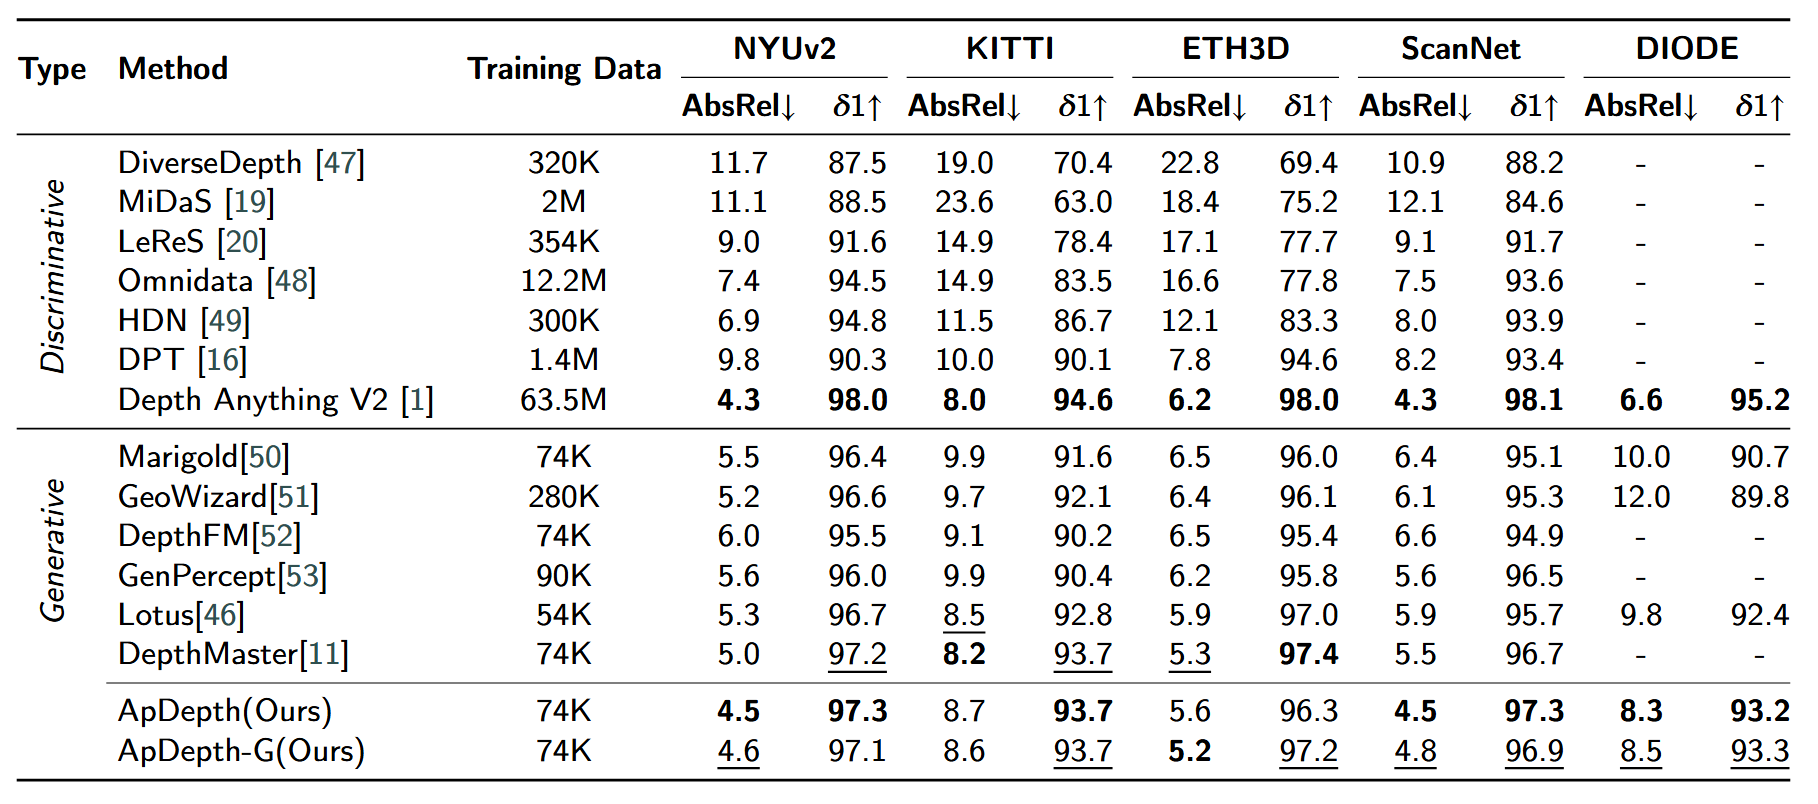
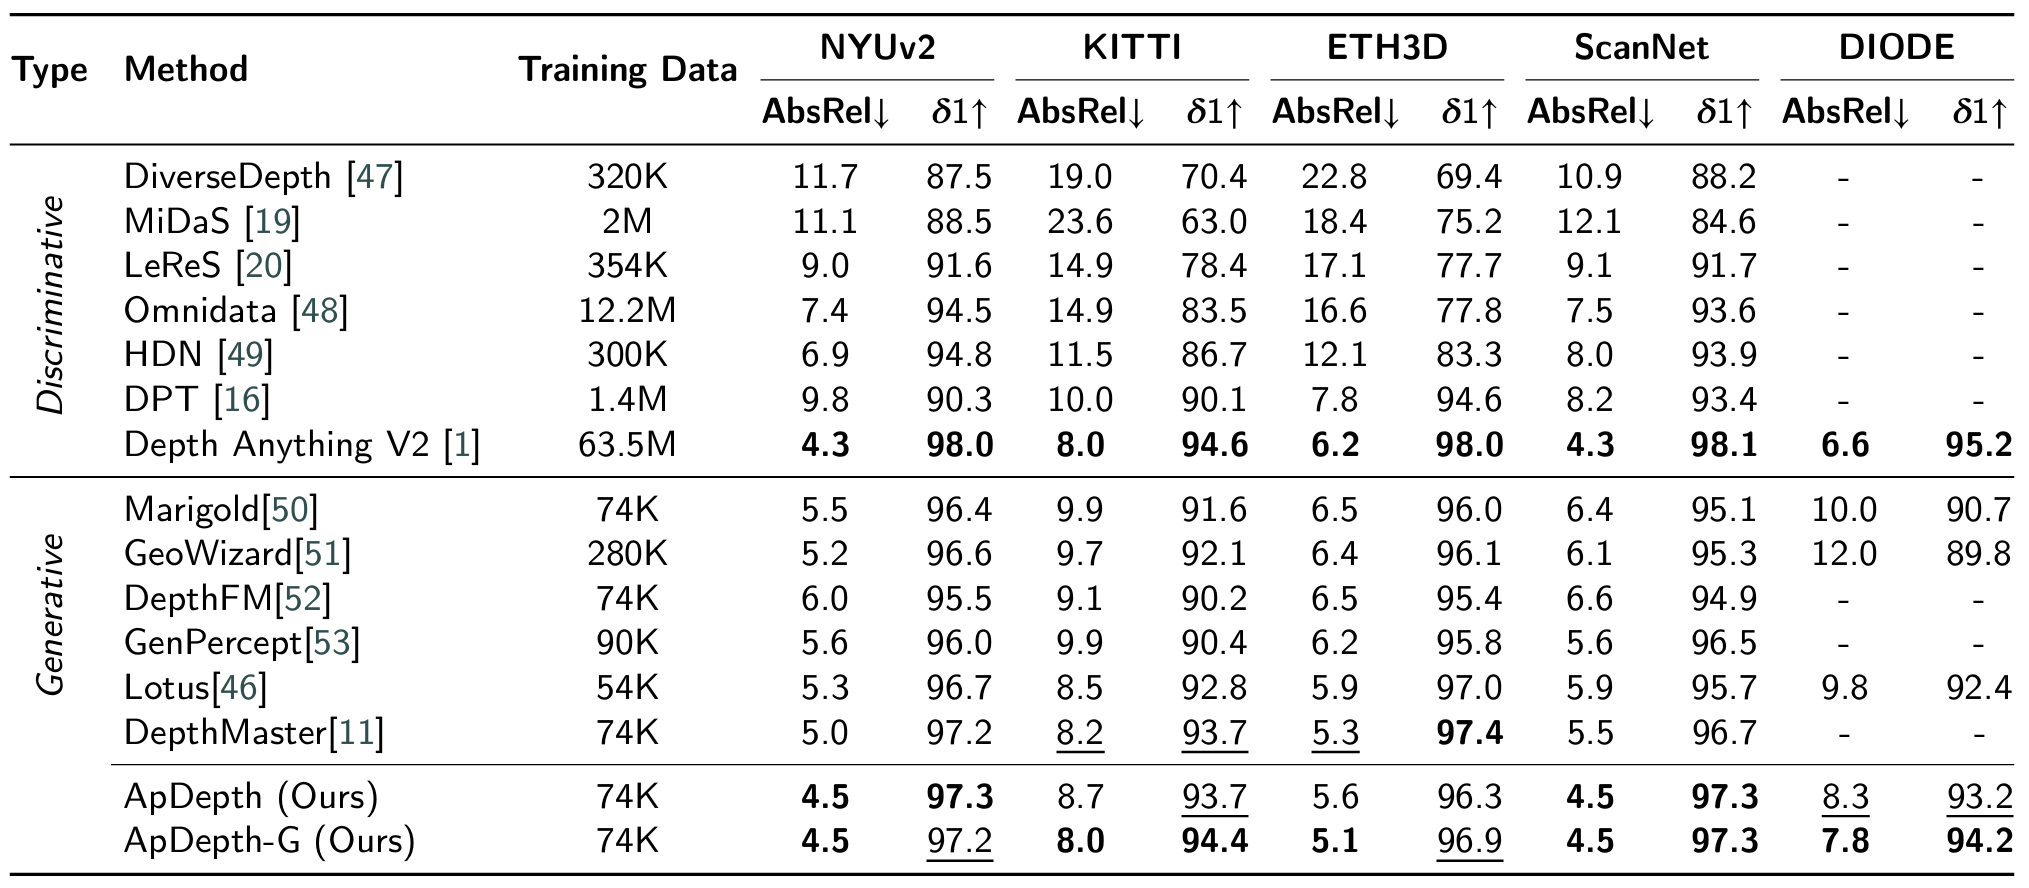
update: add framework for Apdepth-G web page

diff --git a/ApDepth-G/index.html b/ApDepth-G/index.html
@@ -49,8 +49,8 @@
       <span>Jiawei Wang<sup>a,c,d,†</sup>,</span>
       <span>Jingxuan Wang<sup>b,†</sup>,</span>
       <span>Mingbo Lei<sup>a,c</sup>,</span>
-      <span>Haoze Shou<sup>a,c</sup>,</span>
-      <span>and Yusu Liang<sup>a,c</sup></span>
+      <span>Liang Yao<sup>a,c</sup>,</span>
+      <span>and Tianyu Lu<sup>a,c</sup></span>
     </p>
 
     <div class="ieee-affiliations">
@@ -124,8 +124,32 @@
   </section>
 </main>
 
+<section class="training-framework" aria-labelledby="training-framework-heading">
+  <h2 id="training-framework-heading">Training Framework</h2>
+  <figure class="training-framework__figure">
+    <img src="./framework.png" width="75%" alt="ApDepth-G training framework with depth-prior conditioning, latent diffusion, robust noise augmentation, and geometry-aware losses.">
+    <figcaption>
+      <strong>Fig. 2.</strong> Overview of <strong>ApDepth-G</strong>. A frozen foundation depth model
+      <span class="math-symbol">M<sub>FFD</sub></span> predicts the prior depth
+      <span class="math-symbol">d<sub>p</sub></span>, and a frozen VAE maps the RGB image, prior depth, and
+      ground-truth depth to the four-channel latent representations
+      <span class="math-symbol">z<sub>x</sub></span>,
+      <span class="math-symbol">z<sub>p</sub></span>, and
+      <span class="math-symbol">z<sub>gt</sub></span>, respectively. At diffusion timestep
+      <span class="math-symbol">t</span>, the noisy depth latent
+      <span class="math-symbol">z<sub>gt</sub><sup>t</sup></span> is concatenated with the RGB and prior latents and
+      progressively refined by the trainable latent diffusion U-Net. During training, annealed multi-resolution noise
+      is augmented with a channel-wise offset, and the model is optimized using the Min-SNR-reweighted latent objective
+      <span class="math-symbol">ℒ<sub>latent</sub></span>, latent gradient consistency
+      <span class="math-symbol">ℒ<sub>grad</sub></span>, and validity-guided completion
+      <span class="math-symbol">ℒ<sub>VGC</sub></span> in regions without valid depth supervision. Snowflake and flame
+      symbols denote frozen and trainable modules, respectively.
+    </figcaption>
+  </figure>
+</section>
+
 <!-- Gallery: Indoor Scenarios -->
-<section class="hero is-small" style="margin-top: 30px; padding-top: 0px;">
+<section class="hero is-small ieee-contributions" style="margin-top: 30px; padding-top: 0px;">
   <h2 class="title is-4" style="text-align: center;">Comparison with ApDepth on <span style="color: #4FACFA;">Indoor Scenarios</span></h2>
   <div class="hero-body">
     <div class="container">
@@ -137,7 +161,7 @@
 </section>
 
 <!-- Gallery: Outdoor Scenarios -->
-<section class="hero is-small" style="margin-top: 50px; padding-top: 0px;">
+<section class="hero is-small ieee-contributions" style="margin-top: 50px; padding-top: 0px;">
   <h2 class="title is-4" style="text-align: center;">Comparison with ApDepth on <span style="color: #4FACFA;">Outdoor Scenarios</span></h2>
   <div class="hero-body">
     <div class="container">
@@ -148,10 +172,10 @@
   </div>
 </section>
 
-<section class="hero is-small" style="margin-top: 50px; padding-top: 0px;">
+<section class="hero is-small ieee-contributions" style="margin-top: 50px; padding-top: 0px;">
   <h2 class="title is-4" style="text-align: center;"> Compared with other <span style="color: #155b95;">model-driven methods</span></h2>
   <div style="margin-top: 30px; padding-top: 0px; display: flex; justify-content: center;">
-    <img id="method_inference" width="65%" src="table.png" alt="Result">
+    <img id="method_inference" width="85%" src="table.png" alt="Result">
   </div>
 </section>
 
@@ -161,7 +185,7 @@
         <div class="column is-8" align="center">
           <div class="content">
             <p>
-              Website template based on <a href="https://github.com/nerfies/nerfies.github.io">Nerfies</a> and licensed under <a rel="license" href="http://creativecommons.org/licenses/by-sa/4.0/">CC-BY-SA-4.0</a>.
+              Copyright 2026 Haruko386 · SJZU. All Rights Reserved.
             </p>
           </div>
         </div>
@@ -209,9 +233,7 @@
     const item2 = items[i + 1];
 
     const file1 = item1.split('/').pop();
-    // 提取不带后缀的文件名 (例如把 "41.jpg" 变成 "41")
     const baseName1 = file1.substring(0, file1.lastIndexOf('.'));
-    // 拼接预测图片的正确文件名
     const predFile1 = `${baseName1}_pred_colored.png`;
 
     html += `<div class="img-grid-3">`;

diff --git a/ApDepth-G/static/css/index.css b/ApDepth-G/static/css/index.css
@@ -201,6 +201,69 @@ body {
   text-align: justify;
 }
 
+.training-framework {
+  width: min(94%, 1320px);
+  margin: 3.5rem auto 0;
+  padding-top: 1.25rem;
+  border-top: 3px double #111;
+}
+
+.training-framework > h2 {
+  margin: 0 0 1.75rem;
+  color: #000;
+  font-family: 'Noto Sans', sans-serif;
+  font-size: 1.55rem;
+  font-variant: small-caps;
+  font-weight: 400;
+  letter-spacing: 0.08em;
+  line-height: 1.25;
+  text-align: center;
+}
+
+.training-framework__figure {
+  margin: 0;
+}
+
+.training-framework__figure img {
+  display: block;
+  width: 100%;
+  height: auto;
+  margin: 0 auto;
+}
+
+.training-framework__figure figcaption {
+  max-width: 1160px;
+  margin: 0.9rem auto 0;
+  color: #222;
+  font-size: clamp(0.88rem, 1.05vw, 0.98rem);
+  line-height: 1.5;
+  text-align: justify;
+}
+
+.math-symbol {
+  display: inline-block;
+  font-family: 'Cambria Math', 'STIX Two Math', 'Times New Roman', serif;
+  font-style: italic;
+  line-height: 1;
+  white-space: nowrap;
+}
+
+.math-symbol sub,
+.math-symbol sup {
+  position: relative;
+  font-size: 0.72em;
+  line-height: 0;
+  vertical-align: baseline;
+}
+
+.math-symbol sub {
+  bottom: -0.18em;
+}
+
+.math-symbol sup {
+  top: -0.34em;
+}
+
 @media screen and (max-width: 768px) {
   .ieee-paper {
     width: 100%;
@@ -246,6 +309,22 @@ body {
   .ieee-contribution-grid article + article {
     border-top: 1px solid #aaa;
     border-left: 0;
+  }
+
+  .training-framework {
+    width: calc(100% - 1.5rem);
+    margin-top: 2.75rem;
+  }
+
+  .training-framework > h2 {
+    margin-bottom: 1.1rem;
+    font-size: 1.35rem;
+  }
+
+  .training-framework__figure figcaption {
+    font-size: 0.86rem;
+    line-height: 1.45;
+    text-align: left;
   }
 }
 

diff --git a/_pages/about.md b/_pages/about.md
@@ -37,30 +37,29 @@ I used to participate in many **ACM algorithm** competitions(***2022-2023***), b
 
 ## 📝 Publications 
 
-<div class='paper-box'><div class='paper-box-image'><div><div class="badge">TMM 2026</div><img src='../files/cover/cover1.png' alt="ApDepth paper preview" width="100%"></div></div>
+<div class='paper-box'><div class='paper-box-image'><div><div class="badge">Neurocomputing</div><img src='../files/cover/cover1.png' alt="ApDepth paper preview" width="100%"></div></div>
 <div class='paper-box-text' markdown="1">
 
 [**ApDepth: Aiming for Precise Monocular Depth Estimation Based on Diffusion Models**](https://haruko386.github.io/research/)
 
-\[[**Website**](https://haruko386.github.io/research/)\] \[[Paper](https://haruko386.github.io/research/cas-dc-sample.pdf)\] \[[Demo](https://huggingface.co/spaces/developy/ApDepth)\] \[[Model](https://huggingface.co/developy/ApDepth)\] 
+\[[Paper](https://haruko386.github.io/research/cas-dc-sample.pdf)\] \[[Demo](https://huggingface.co/spaces/developy/ApDepth)\] \[[Model](https://huggingface.co/developy/ApDepth)\] 
 <p class="paper-summary">
 This paper presents <span style="font-family: Georgia, 'Times New Roman', serif; font-weight: 800; font-style: italic; color: #2c3e50; font-variant: small-caps;">ApDepth</span>, a novel single-step diffusion framework for monocular depth estimation that achieves fast inference while preserving fine-grained edge details through a tailored two-stage training strategy combined with novel frequency-domain and cosine similarity losses.
 </p>
 </div>
 </div>
 
-<div class='paper-box'><div class='paper-box-image'><div><div class="badge">TCSVT 2026</div><img src='../ApDepth-G/static/images/cover.png' alt="ApDepth-G paper preview" width="100%"></div></div>
+<div class='paper-box'><div class='paper-box-image'><div><div class="badge">arXiv</div><img src='../ApDepth-G/static/images/cover.png' alt="ApDepth-G paper preview" width="100%"></div></div>
 <div class='paper-box-text' markdown="1">
 
 [**ApDepth-G: Multi-Step Geometric Diffusion Refinement for Robust Monocular Depth Estimation**](https://haruko386.github.io/ApDepth-G)
 
-\[[**Website**](https://haruko386.github.io/ApDepth-G/)\] \[[~~Paper~~](#)\] \[[Model](https://huggingface.co/developy/ApDepth-G)\] 
+\[[~~Paper~~](#)\] \[[Model](https://huggingface.co/developy/ApDepth-G)\] 
 <p class="paper-summary">
 We presents <span style="font-family: Georgia, 'Times New Roman', serif; font-weight: 800; font-style: italic; color: #1a1236; font-variant: small-caps;">ApDepth-G</span>,  a multi-step geometric diffusion refinement framework for sky-stable monocular depth estimation. It progressively refines latent depth representations through multi-step denoising and improves training with offset noise regularization, SNR-based loss reweighting, and latent gradient consistency.
 </p>
 </div>
 </div>
-
 
 ## 🎈ACM ＆ OI
 
